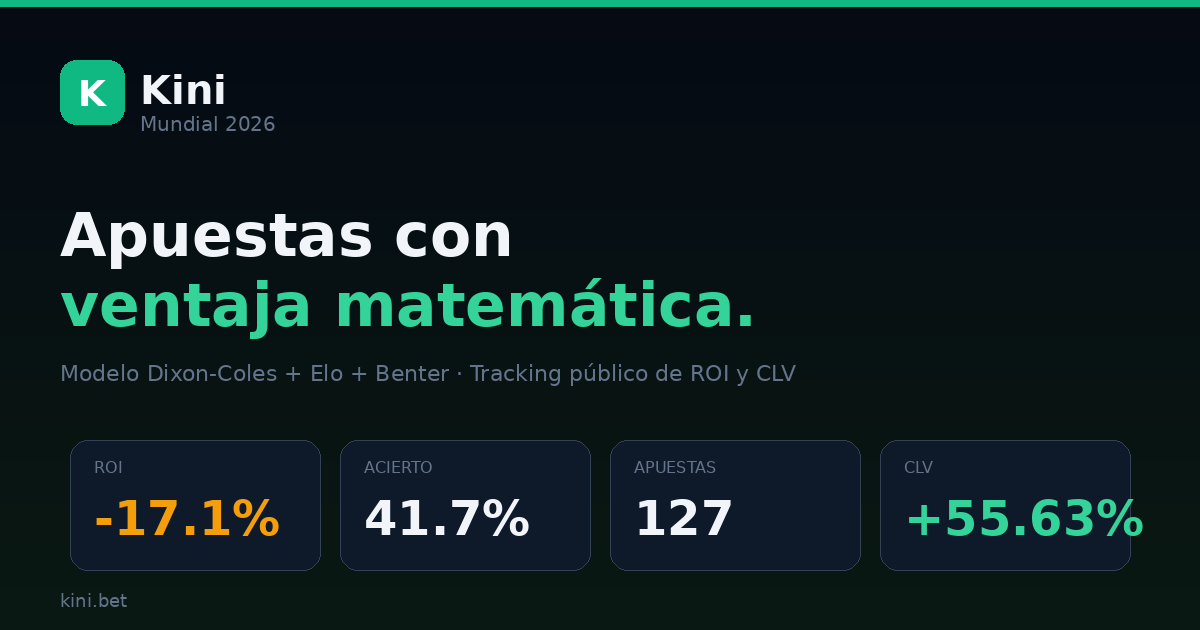
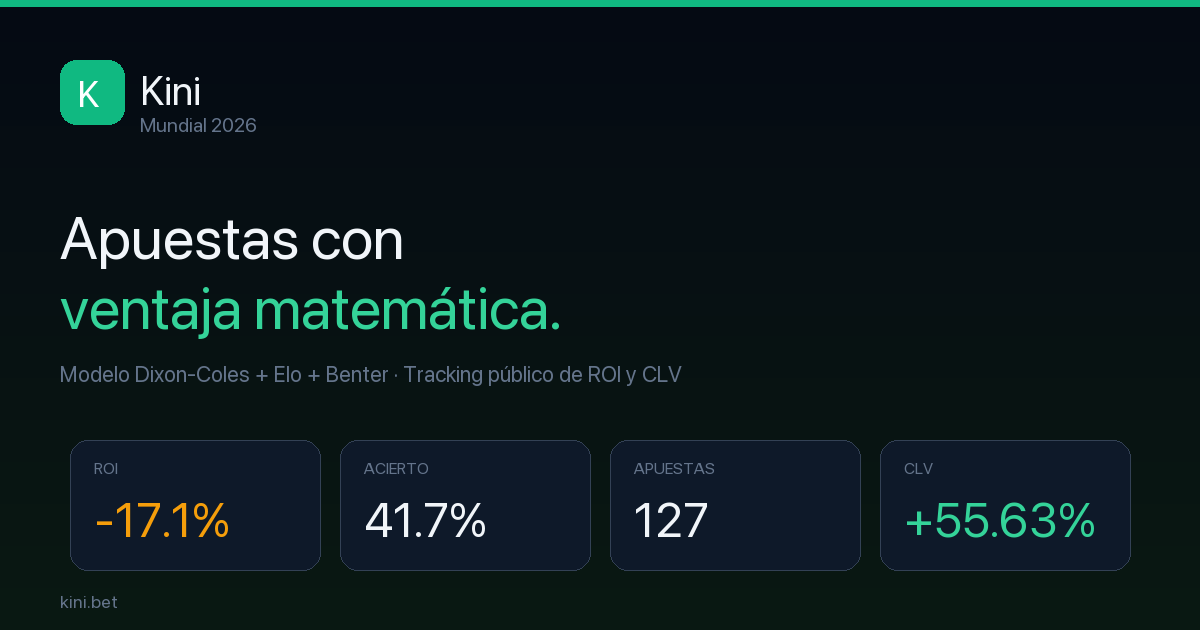
fix: cache-bust og:image so WhatsApp/FB stop serving stale landing preview
Crawlers cache OG previews per exact URL, so re-scraping og-card.png at
the same URL never picked up landing/stats changes. Now generate_og_card.py
appends a content-hash query param and rewrites docs/index.html; CI commits
the updated index.html alongside the card.

diff --git a/docs/index.html b/docs/index.html
@@ -7,7 +7,7 @@
 <meta name="description" content="Encuentra apuestas de valor en el Mundial 2026 usando un modelo Dixon-Coles + Elo. Tracking público de ROI, edge y CLV." />
 <meta property="og:title" content="Kini — Apuestas de valor para el Mundial 2026" />
 <meta property="og:description" content="Modelo estadístico que detecta cuándo las casas de apuestas subestiman un resultado. Tracking público y transparente." />
-<meta property="og:image" content="https://kini.bet/og-card.png" />
+<meta property="og:image" content="https://kini.bet/og-card.png?v=d174848b36" />
 <meta property="og:url" content="https://kini.bet/" />
 <meta name="twitter:card" content="summary_large_image" />
 <meta property="og:locale" content="es_LA" />

diff --git a/tools/generate_og_card.py b/tools/generate_og_card.py
@@ -7,7 +7,9 @@ Run: python -m tools.generate_og_card
 """
 from __future__ import annotations
 
+import hashlib
 import json
+import re
 from pathlib import Path
 
 from PIL import Image, ImageDraw, ImageFont
@@ -15,6 +17,7 @@ from PIL import Image, ImageDraw, ImageFont
 ROOT = Path(__file__).resolve().parent.parent
 HISTORY = ROOT / "docs" / "data" / "history.json"
 OUT = ROOT / "docs" / "og-card.png"
+INDEX_HTML = ROOT / "docs" / "index.html"
 
 # 1200×630 = standard OG / Twitter card
 W, H = 1200, 630
@@ -159,8 +162,27 @@ def generate() -> None:
     draw.text((60, H - 40), "kini.bet", font=f_url, fill=MUTE)
 
     img.convert("RGB").save(OUT, "PNG", optimize=True)
+
+    version = hashlib.sha1(OUT.read_bytes()).hexdigest()[:10]
+    _bump_og_image_version(version)
+
     print(f"✓ OG card written: {OUT}")
     print(f"  Stats: ROI={roi}% win_rate={win_rate}% bets={total_bets} clv={avg_clv}")
+
+
+def _bump_og_image_version(version: str) -> None:
+    """Rewrite og:image URL with a content-hash query param so WhatsApp/FB
+    crawlers (which cache previews per exact URL) re-fetch on every change."""
+    if not INDEX_HTML.exists():
+        return
+    html = INDEX_HTML.read_text()
+    new_html = re.sub(
+        r'(https://kini\.bet/og-card\.png)(\?v=[0-9a-f]+)?',
+        rf'\1?v={version}',
+        html,
+    )
+    if new_html != html:
+        INDEX_HTML.write_text(new_html)
 
 
 if __name__ == "__main__":